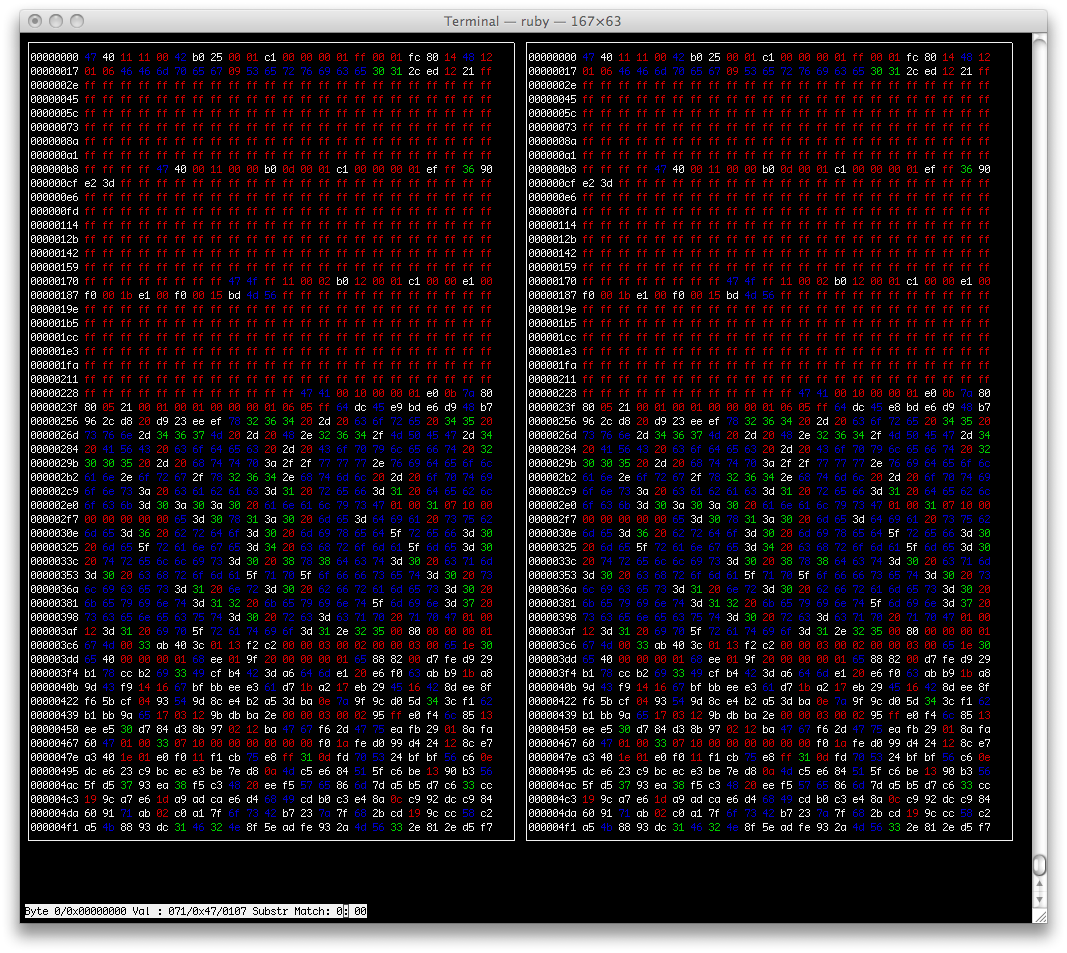
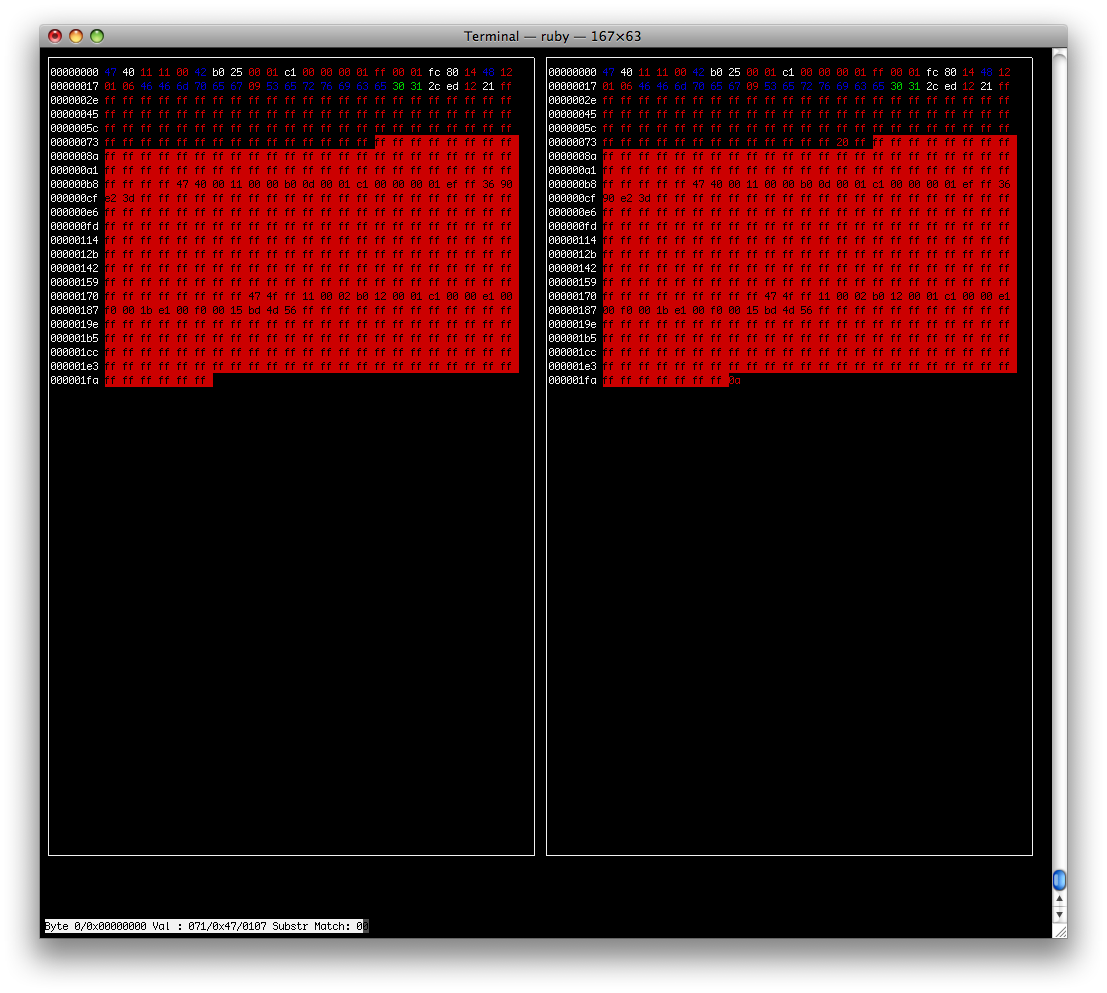
First attempt at diff

diff --git a/hexinspector.rb b/hexinspector.rb
@@ -30,6 +30,8 @@ class HexPager
     @offset = 0
     @diff = diff
     @main = main
+    @mode = :src if @main==nil
+    @mode = :dst if @main!=nil
   end
 
   def text_color(char)
@@ -44,6 +46,17 @@ class HexPager
     end
   end
   
+  def isdifferent(pos,diff,mode=:src)
+    diff.each {|x|
+      if mode==:src
+        return x[-1]==:diff if pos>x[0] and pos<=x[1]
+       elsif mode==:dst
+        return x[-1]==:diff if pos>x[2] and pos<=x[3]
+       end
+    }
+    return false
+  end
+
   def dump_hex(lines,offset=0,width=16,startpos=0,curpos=0)
     i=0
 
@@ -61,8 +74,15 @@ class HexPager
           char = @file[x+y]
           if char!=nil
             str << "%02x "% char
-            
-            @window.attrset(HexInspector.get_color(text_color(char)))
+            if @diff!=nil
+             if isdifferent(x+y,@diff,@mode)
+              @window.attrset(HexInspector.get_color(:diff))
+             else
+              @window.attrset(HexInspector.get_color(text_color(char)))
+             end
+            else
+             @window.attrset(HexInspector.get_color(text_color(char)))
+            end
             @window.mvaddstr(i+startpos+1,1+ypos,str)
             @window.attrset(HexInspector.get_color(:normal))
             ypos+=str.size
@@ -138,7 +158,7 @@ class HexInspector
     @file2 = file2
 
     Ncurses.start_color()
-    Ncurses.init_pair(HexInspector::colors[:diff], Ncurses::COLOR_RED, Ncurses::COLOR_BLACK);
+    Ncurses.init_pair(HexInspector::colors[:diff], Ncurses::COLOR_BLACK, Ncurses::COLOR_RED);
     Ncurses.init_pair(HexInspector::colors[:reversed], Ncurses::COLOR_BLACK, Ncurses::COLOR_WHITE);
     Ncurses.init_pair(HexInspector::colors[:unprintable], Ncurses::COLOR_RED, Ncurses::COLOR_BLACK);
     Ncurses.init_pair(HexInspector::colors[:letter], Ncurses::COLOR_BLUE, Ncurses::COLOR_BLACK);
@@ -176,7 +196,7 @@ class HexInspector
       
       @pager.resize((@width/2)-1,@height-5,0,0)         if @pager2!=nil
       @pager2.resize((@width/2)-1,@height-5,@width/2,0) if @pager2!=nil
-      @pager.resize(@width,@height-5,0,0)           if @pager2==nil
+      @pager.resize(@width,@height-5,0,0)               if @pager2==nil
 
       @pager_lines=@height-5
       @window_size_changed=false

diff --git a/hexfile.rb b/hexfile.rb
@@ -125,6 +125,8 @@ class HexInspectorFile
   # Add the last one if we're still in sync
   if mode==:synced
    diff << [segment_srcstart,srcptr,segment_dststart,dstptr,diffprecision]
+  else
+   diff << [segment_srcstart,srcsize,segment_dststart,dstsize,:diff]  
   end
   
   return generate_diffhunks(diff)
